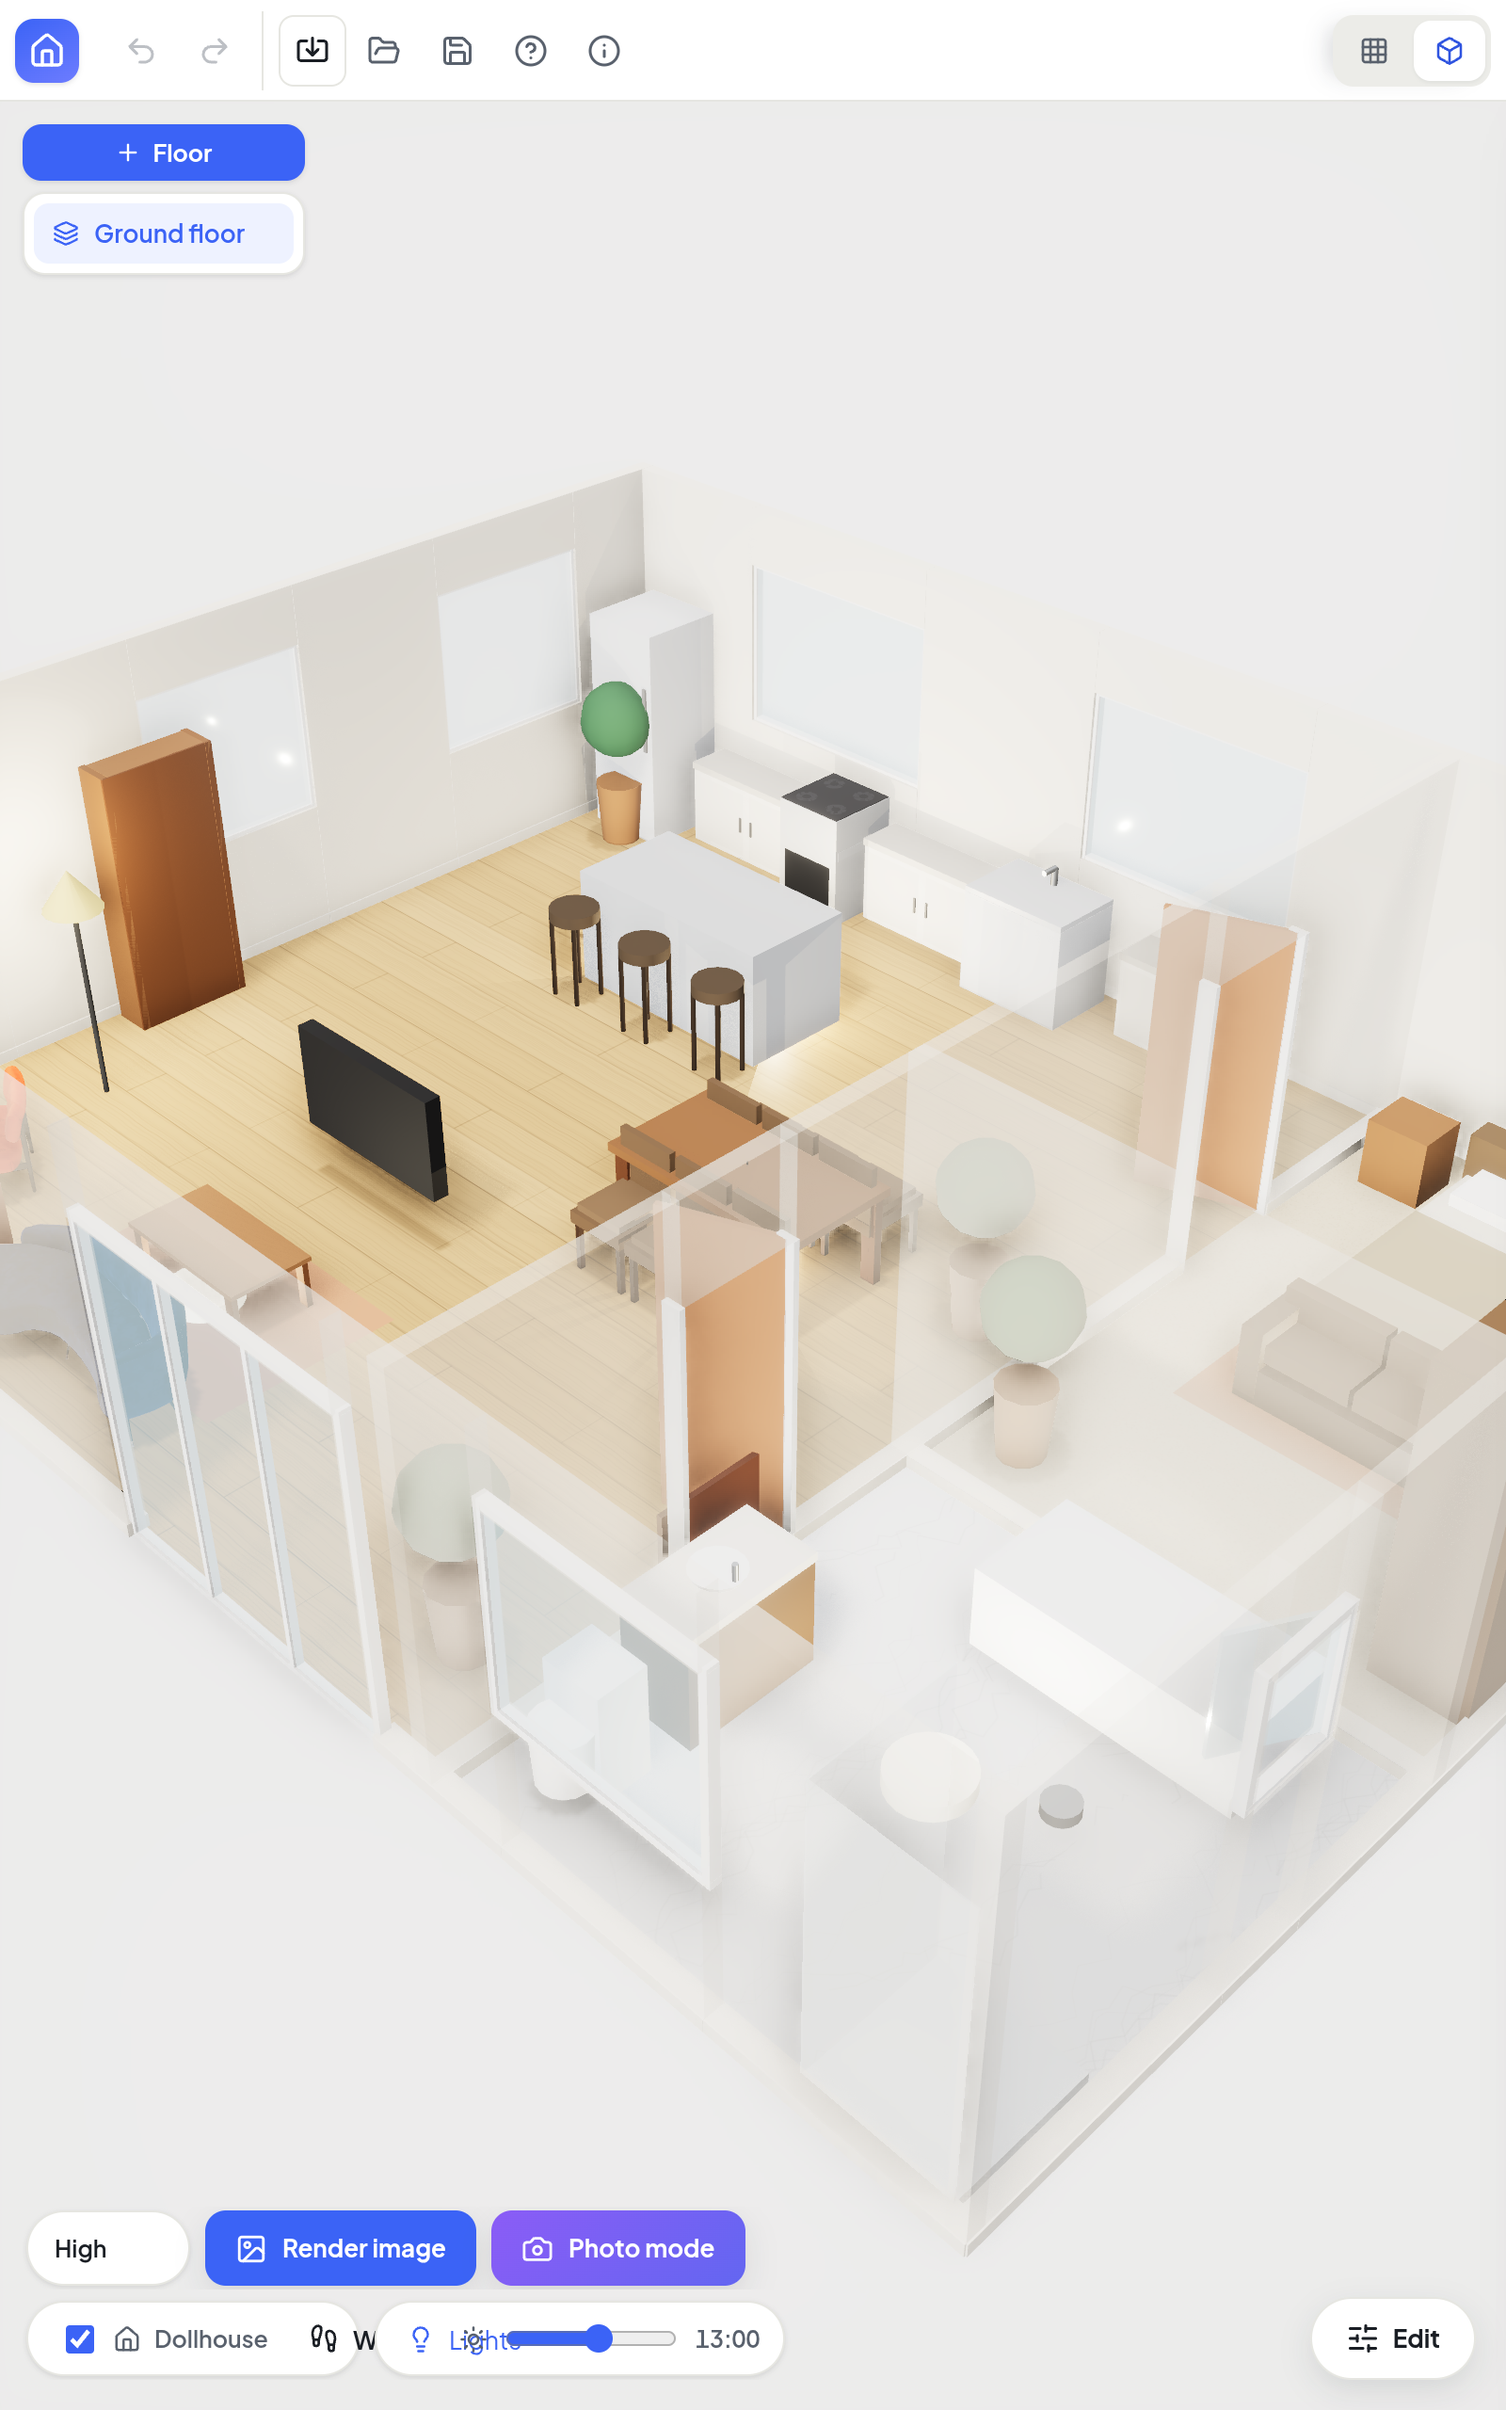
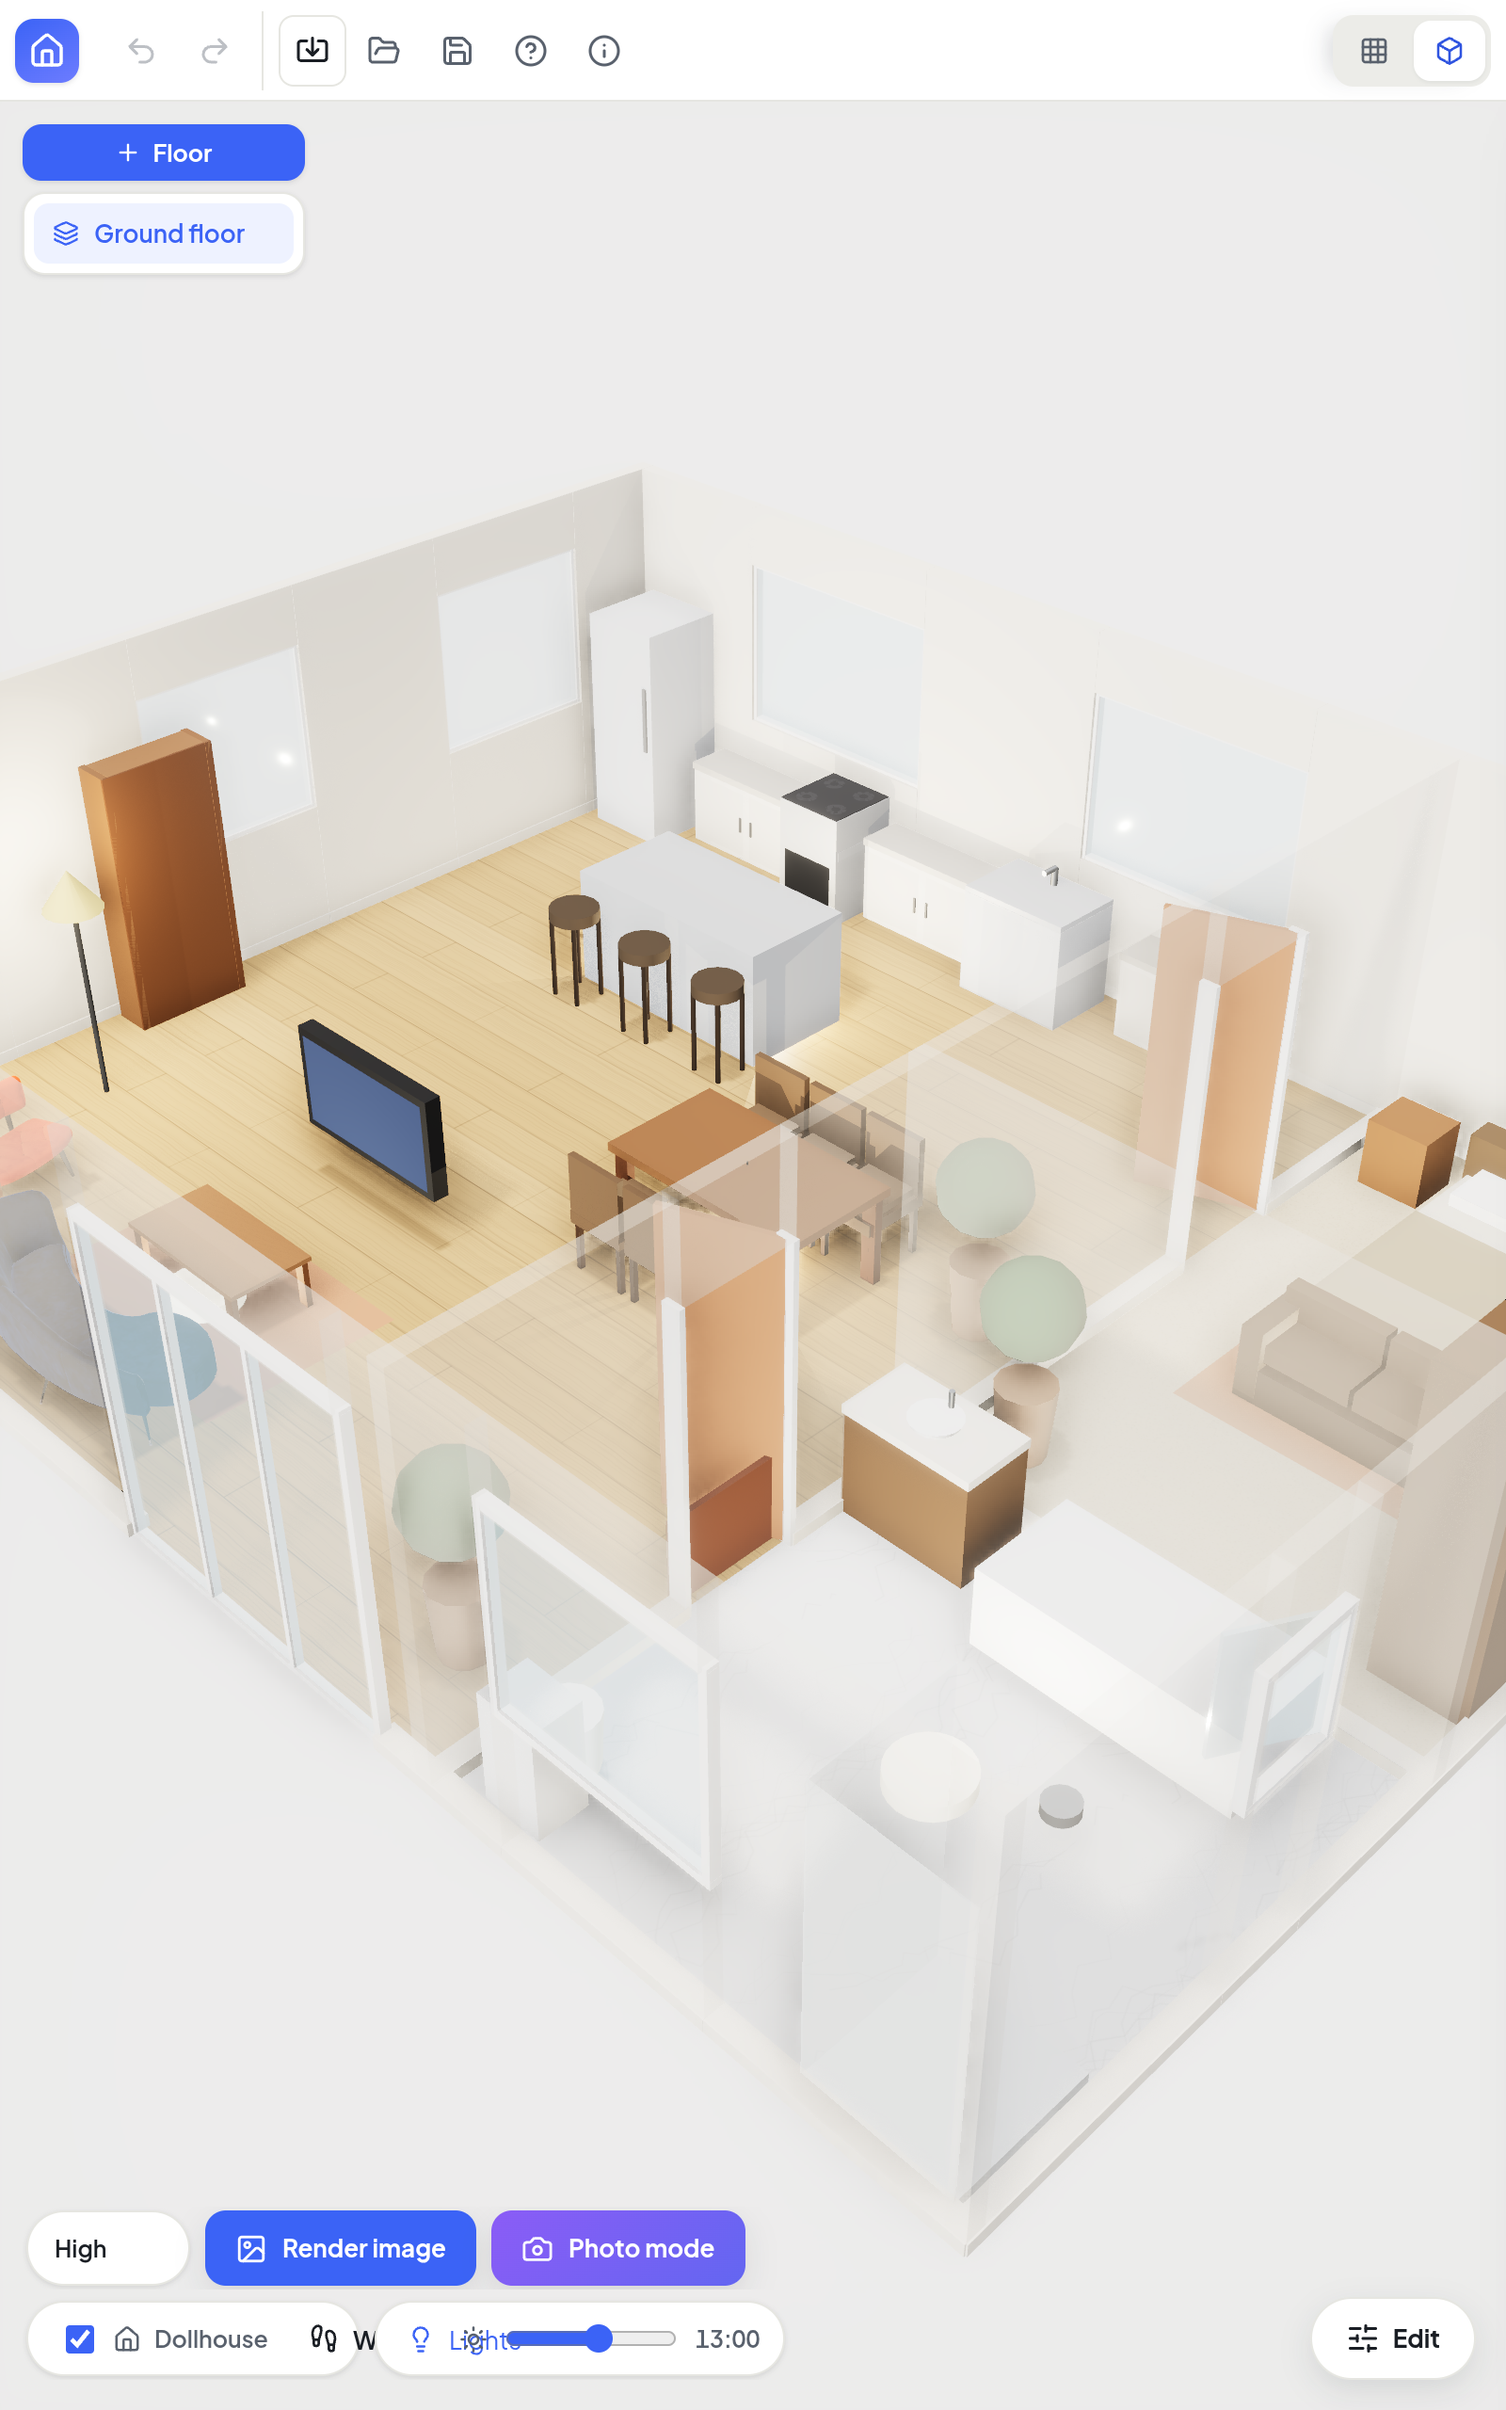
Fix sofa/TV facings + guard photo mode on unsupported GPUs
- Sample home: sofa, TV, dining chairs, armchair, bathroom vanity
  now face the right way. The 3D mesh's local +Z is "front" and
  Furniture3D maps that to plan +Y, so rotation 0 pointed items
  south — sofa was showing its back to the TV, dining chairs had
  their backs to the table. Swapped to the correct angles per
  position, plus dropped the plant that was sitting inside the
  fridge footprint and moved wall art flush against the partition.
- Photo mode used to sit at "0/400 samples" indefinitely on any
  Android GPU without EXT_color_buffer_float. Cap samples at 200,
  detect the missing extension (and a 6-second no-progress
  timeout as a belt-and-braces check), and surface a clear
  "not available on this device — use Render image instead"
  fallback with a back button. Save PNG is disabled until the
  first sample lands.

diff --git a/src/components/Viewer3D/PhotoMode.tsx b/src/components/Viewer3D/PhotoMode.tsx
@@ -12,18 +12,30 @@ import { useDesign } from '../../store/designStore';
 import { useProStore } from '../../store/proStore';
 import { applyWatermark } from '../../lib/watermark';
 
-const MAX_SAMPLES = 400;
+const MAX_SAMPLES = 200;
 
 /** Lives inside <Pathtracer> so it can use its context. */
 function PathtracedContent({
   center,
   onSamples,
+  onUnsupported,
 }: {
   center: [number, number, number];
   onSamples: (n: number) => void;
+  onUnsupported: () => void;
 }) {
   const { pathtracer, reset, update } = usePathtracer();
   const { scene, gl } = useThree();
+
+  // Some mobile GPUs report WebGL2 but lack the float-buffer support the
+  // path tracer needs; in that case pathtracer.samples never advances. Flag
+  // it up-front so the UI shows a helpful message instead of a stalled bar.
+  useEffect(() => {
+    const glCtx = gl.getContext();
+    const ext =
+      'getExtension' in glCtx ? (glCtx as WebGL2RenderingContext).getExtension('EXT_color_buffer_float') : null;
+    if (!ext) onUnsupported();
+  }, [gl, onUnsupported]);
 
   // Offline gradient sky → image-based lighting (no CDN fetch).
   useEffect(() => {
@@ -71,6 +83,17 @@ function PathtracedContent({
 export default function PhotoMode({ onClose }: { onClose: () => void }) {
   const { center, radius } = useDesignBounds();
   const [samples, setSamples] = useState(0);
+  const [unsupported, setUnsupported] = useState(false);
+  // If sample counter hasn't advanced within a few seconds of mounting the
+  // pathtracer, treat the device as unsupported and offer the standard-render
+  // fallback rather than leaving the user staring at "0/200 samples" forever.
+  useEffect(() => {
+    if (samples > 0) return;
+    const t = window.setTimeout(() => {
+      if (samples === 0) setUnsupported(true);
+    }, 6000);
+    return () => window.clearTimeout(t);
+  }, [samples]);
   const done = samples >= MAX_SAMPLES;
   const pct = Math.round((samples / MAX_SAMPLES) * 100);
 
@@ -82,15 +105,35 @@ export default function PhotoMode({ onClose }: { onClose: () => void }) {
         style={{ position: 'absolute', inset: 0 }}
       >
         <Pathtracer enabled samples={MAX_SAMPLES} bounces={5} tiles={[3, 3]}>
-          <PathtracedContent center={center} onSamples={setSamples} />
+          <PathtracedContent
+            center={center}
+            onSamples={setSamples}
+            onUnsupported={() => setUnsupported(true)}
+          />
         </Pathtracer>
       </Canvas>
+
+      {unsupported && (
+        <div className="photo-fallback">
+          <div className="photo-fallback-title">Photorealistic mode isn't available on this device.</div>
+          <div className="photo-fallback-body">
+            Your GPU doesn't support the float buffers the path tracer needs. Use{' '}
+            <b>Render image</b> from the 3D view instead — it saves a crisp raster snapshot
+            with the current lighting.
+          </div>
+          <button className="btn primary" onClick={onClose}>
+            Back to 3D
+          </button>
+        </div>
+      )}
 
       <div className="photo-bar">
         <div className="photo-status">
           <span className="logo">📷</span>
           <div>
-            <div className="photo-title">{done ? 'Render complete' : 'Rendering photorealistic image…'}</div>
+            <div className="photo-title">
+              {unsupported ? 'Not available on this device' : done ? 'Render complete' : 'Rendering photorealistic image…'}
+            </div>
             <div className="photo-sub">
               {samples} / {MAX_SAMPLES} samples
               <div className="photo-progress">
@@ -103,7 +146,11 @@ export default function PhotoMode({ onClose }: { onClose: () => void }) {
           <button className="btn" onClick={onClose}>
             Close
           </button>
-          <button className="btn primary" onClick={() => photoCapture.current?.()}>
+          <button
+            className="btn primary"
+            disabled={samples === 0}
+            onClick={() => photoCapture.current?.()}
+          >
             💾 Save PNG
           </button>
         </div>

diff --git a/src/data/sampleProject.ts b/src/data/sampleProject.ts
@@ -139,33 +139,37 @@ export function sampleProject(): GeomSnapshot {
     fur('island', 300, 220),
     fur('pendant', 245, 210),
     fur('pendant', 355, 210),
+    // Bar stools sit at the south face of the island (the entertaining side).
     fur('bar_stool', 225, 285),
     fur('bar_stool', 300, 285),
     fur('bar_stool', 375, 285),
 
     // ---------- Dining (centre of the great room) ----------
+    // Chair rotations use the plan convention encoded in Furniture3D:
+    //   rotation 0 → item faces +Y (south / down on screen)
+    //   rotation 180 → item faces -Y (north / up on screen)
+    // so a chair at the *north* side of the table wants rotation 0.
     fur('dining_table', 550, 430),
-    fur('dining_chair', 500, 370, 180),
-    fur('dining_chair', 550, 370, 180),
-    fur('dining_chair', 600, 370, 180),
-    fur('dining_chair', 500, 490, 0),
-    fur('dining_chair', 550, 490, 0),
-    fur('dining_chair', 600, 490, 0),
+    fur('dining_chair', 500, 370, 0),
+    fur('dining_chair', 550, 370, 0),
+    fur('dining_chair', 600, 370, 0),
+    fur('dining_chair', 500, 490, 180),
+    fur('dining_chair', 550, 490, 180),
+    fur('dining_chair', 600, 490, 180),
     fur('pendant', 550, 430),
     fur('large_plant', 700, 380),
 
     // ---------- Living (south of the great room) ----------
     fur('rug', 340, 700),
-    fur('sofa', 340, 785, 0),
+    fur('sofa', 340, 785, 180),          // faces north, toward the TV
     fur('coffee_table', 340, 685),
-    fur('tv_stand', 340, 560, 180),
-    fur('armchair', 130, 720, 30),
+    fur('tv_stand', 340, 560, 0),        // faces south, toward the sofa
+    fur('armchair', 150, 720, 260),      // faces the coffee table (east-north)
     fur('side_table', 65, 720),
     fur('floor_lamp', 90, 610),
     fur('bookshelf', 25, 500, 90),
-    fur('large_plant', 60, 90),
     fur('large_plant', 690, 780),
-    fur('wall_art', 735, 640, 90),
+    fur('wall_art', 742, 640, 90),       // hung on the partition wall, faces west
     fur('ceiling_light', 340, 700),
 
     // ---------- Master bedroom ----------
@@ -180,10 +184,10 @@ export function sampleProject(): GeomSnapshot {
     fur('large_plant', 795, 450),
 
     // ---------- Bathroom ----------
-    fur('bathtub', 960, 550, 0),
-    fur('vanity', 800, 700, 90),
-    fur('toilet', 800, 800, 0),
-    fur('shower', 1045, 800, 0),
+    fur('bathtub', 960, 550, 0),         // along the north (interior) wall
+    fur('vanity', 800, 535, 0),          // basin faces south into the room
+    fur('toilet', 795, 805, 180),        // cistern to the south wall
+    fur('shower', 1045, 800, 0),         // SE corner
     fur('ceiling_light', 925, 675),
   ];
 

diff --git a/src/index.css b/src/index.css
@@ -2059,6 +2059,35 @@ button.brand:hover .brand-name {
   z-index: 2;
   box-shadow: var(--shadow-md);
 }
+.photo-fallback {
+  position: absolute;
+  inset: 0;
+  display: grid;
+  place-items: center;
+  padding: 24px;
+  background: rgba(12, 14, 19, 0.72);
+  z-index: 3;
+}
+.photo-fallback > * {
+  max-width: 420px;
+  text-align: center;
+  color: #fff;
+}
+.photo-fallback-title {
+  font-size: 20px;
+  font-weight: 700;
+  margin-bottom: 10px;
+}
+.photo-fallback-body {
+  font-size: 14px;
+  line-height: 1.5;
+  opacity: 0.85;
+  margin-bottom: 18px;
+}
+.photo-fallback .btn.primary {
+  padding: 10px 24px;
+  border-radius: 999px;
+}
 
 /* ---------- Walk mode HUD ---------- */
 .walk-hint {
